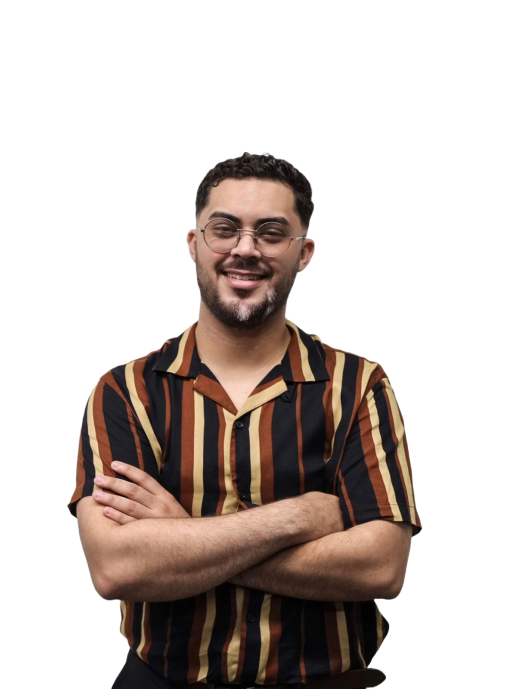
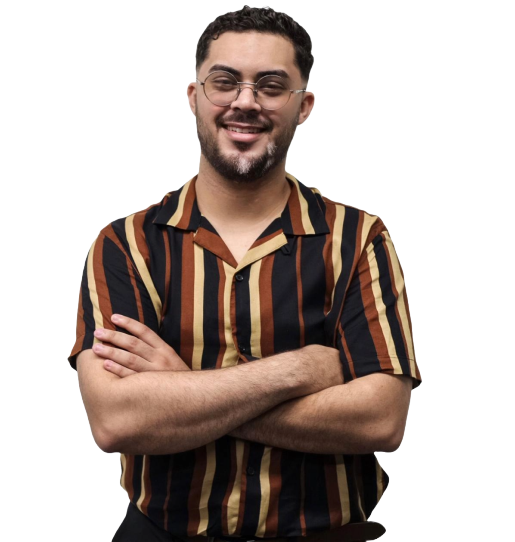
header and navbar responsive design updated

diff --git a/src/containers/header/header.css b/src/containers/header/header.css
@@ -30,11 +30,12 @@
 .portfolio__header-container_intro-text {
     display: flex;
     flex-direction: column;
-    justify-content: space-between;
+    justify-content: center;
     align-items: flex-start;
-    height: 50%;
+    height: 100%;
     position: relative;
     z-index: 1;
+    gap: 3rem;
 }
 
 .portfolio__header-container_intro-text h1 {
@@ -88,7 +89,8 @@
 .portfolio__header-container_intro-image {
     display: flex;
     justify-content: center;
-    align-items: flex-start;
+    align-items: center;
+    height: 100%;
     align-self: flex-start;
     width: 80%;
 }
@@ -115,12 +117,11 @@
 
     .portfolio__header-container_intro-image {
         justify-content: flex-end;
-        height: 90%;
+        height: 100%;
     }
 
     .portfolio__header-container_intro-image img {
-        width: 85%;
-        height: 100%;
+        width: 90%;
     }
 
     .portfolio__header-container_intro-text i {
@@ -131,15 +132,19 @@
 }
 
 @media screen and (max-width: 1000px) {
+    .portfolio__header-container {
+        gap: 4rem;
+    }
+
     .portfolio__header-container_intro {
         flex-direction: column-reverse;
     }
 
     .portfolio__header-container_intro-text {
         align-items: center;
-        justify-content: space-evenly;
         text-align: center;
         width: 80%;
+        gap: 2rem;
     }
 
     .portfolio__header-container_intro-text h1 {
@@ -170,8 +175,13 @@
 }
 
 @media screen and (max-width: 500px) {
+    .portfolio__header-container {
+        gap: 3rem;
+    }
+
     .portfolio__header-container_intro-text {
-        height: 100%;
+        width: 100%;
+        gap: 1rem;
     }
     .portfolio__header-container_intro-text h1 {
         font-size: 55px;
@@ -190,7 +200,7 @@
         line-height: 50px;
     }
 
-    .portfolio__header-container_intro-image {
-        height: 40%;
+    .portfolio__header-container_intro-image img {
+        width: 85%;
     }
 }

diff --git a/src/containers/navbar/navbar.css b/src/containers/navbar/navbar.css
@@ -50,6 +50,7 @@
 
 .portfolio__navbar-menu {
     display: none;
+    position: relative;
 }
 
 .portfolio__navbar-menu_content {
@@ -59,7 +60,6 @@
     align-items: flex-start;
     text-align: right;
     position: absolute;
-    padding: 1.5rem;
     border-radius: 5px;
     background-color: #040d1290;
     box-shadow: 0px 0px 5px rgba(0, 0, 0, 0.2);
@@ -75,16 +75,20 @@
     margin: 0.5rem 0;
 }
 
-.portfolio__navbar-menu_content p:nth-child(1),
-.portfolio__navbar-menu_content p:nth-child(2) {
-    margin-bottom: 1rem;
-}
-
 .portfolio__navbar-menu_content a:last-child {
     border: none;
     padding: 0;
 }
 
+.portfolio__navbar-menu_content a:last-child:hover {
+    all: unset;
+    cursor: pointer;
+}
+
+.portfolio__navbar-menu_content a:last-child p:hover {
+    color: #b9b8b8;
+
+}
 
 @media screen and (min-width: 1700px) {
     .portfolio__navbar-links_logo h3 {
@@ -134,7 +138,10 @@
     }
 
     .portfolio__navbar-menu_content {
-        right: 8rem;
+        right: 0;
+        top: 1.6rem;
+        gap: 1.5rem;
+        padding: 1.5rem 2rem;
     }
 }
 
@@ -142,6 +149,7 @@
     .portfolio__navbar {
         padding: 0 1rem;
     }
+    
     .portfolio__navbar-links_container {
         display: none;
     }
@@ -154,12 +162,6 @@
 
     .portfolio__navbar-menu {
         margin: 0;
-    }
-
-    .portfolio__navbar-menu_content {
-        right: 3rem;
-        top: 6.5rem;
-        padding: 1.5rem;
     }
 
     .portfolio__navbar-menu_content p {

diff --git a/src/App.css b/src/App.css
@@ -33,8 +33,9 @@ a {
 }
 
 .transparent-button:hover {
-    transform: scale(1.05);
-    border-color: transparent;
+    transform: scale(110%);
+    border: none;
+    padding: 0.8125rem 1.7125rem;
     background: radial-gradient(117.2% 787.56% at -7.6% 100%, #5EE4C6 3.5%, #77B7F7 31%, #5358D9 55.5%, #7F5DEB 83%, #C86CE2 100%) /* warning: gradient uses a rotation that is not supported by CSS and may not behave as expected */;
     box-shadow: 0 0 12px #ffffff48;
 }

diff --git a/src/containers/header/Header.jsx b/src/containers/header/Header.jsx
@@ -20,7 +20,6 @@ function Header() {
                         <img src={profileImage} alt='profile'/>
                     </div>
                 </div>
-                
             </div>
         </div>
     )
